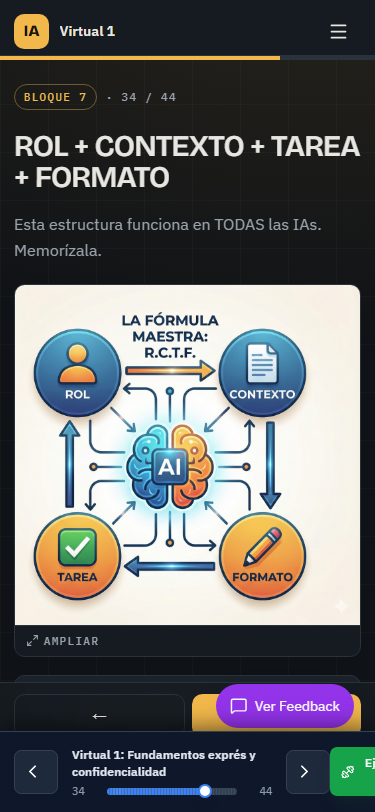
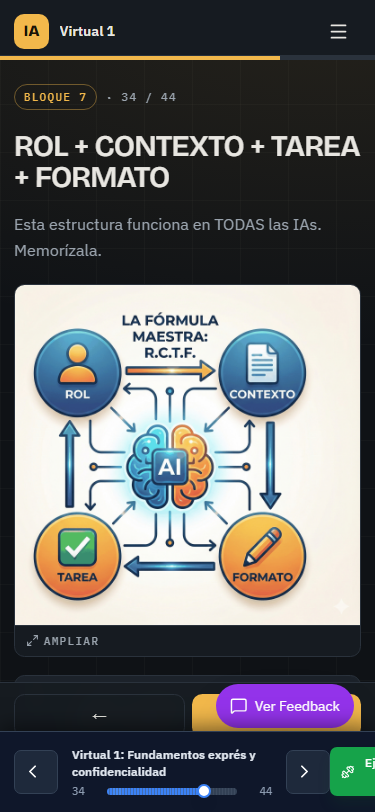
perf: rctf-formula.png de 7,2 MB a 1,05 MB (1536 px, 256 colores)

diff --git a/docs/revision/2026-09-24-revision-diseno-avanzado.md b/docs/revision/2026-09-24-revision-diseno-avanzado.md
@@ -12,7 +12,16 @@ Revisor: `claude-opus-5-5` / `medium`. Scripts de verificación fuera del repo:
   `al abrir, foco en «Cerrar | dentro del diálogo: true»; tras Escape, foco en «Ampliar: …»` y
   `Tab … «Cerrar | dentro del diálogo: true»; tras Enter en Cerrar, foco en «Ampliar: …»`.
 
-## Listado, sin arreglar (necesita decisión)
+## Decididos por José Luis y hechos
+
+- **Pizarra oscura.** Sin tocar `Whiteboard.jsx`: `SlideAvanzado` le pone `av-pizarra` y
+  `tema-avanzado.css` recolorea sus clases solo bajo `.tema-avanzado .av-pizarra`. El recorrido
+  ahora la visita como admin y como alumno (paso 5) y falla si queda un fondo blanco o azul del
+  básico, o si «Copiar contenido» no va en el acento.
+- **`rctf-formula.png` de 7,2 MB a 1,05 MB**: 1536×1512, 256 colores con tramado, mismo nombre y
+  formato (no cambia ningún archivo de código). Afecta también al básico, con su visto bueno.
+
+## Listado, sin arreglar (necesita decisión) — ya resuelto, arriba
 
 1. **La pizarra se ve con los colores del básico** sobre el fondo oscuro: tarjeta blanca con barra
    azul `from-blue-600` y botón «Copiar contenido» azul. Funciona bien como admin (edita, el texto
